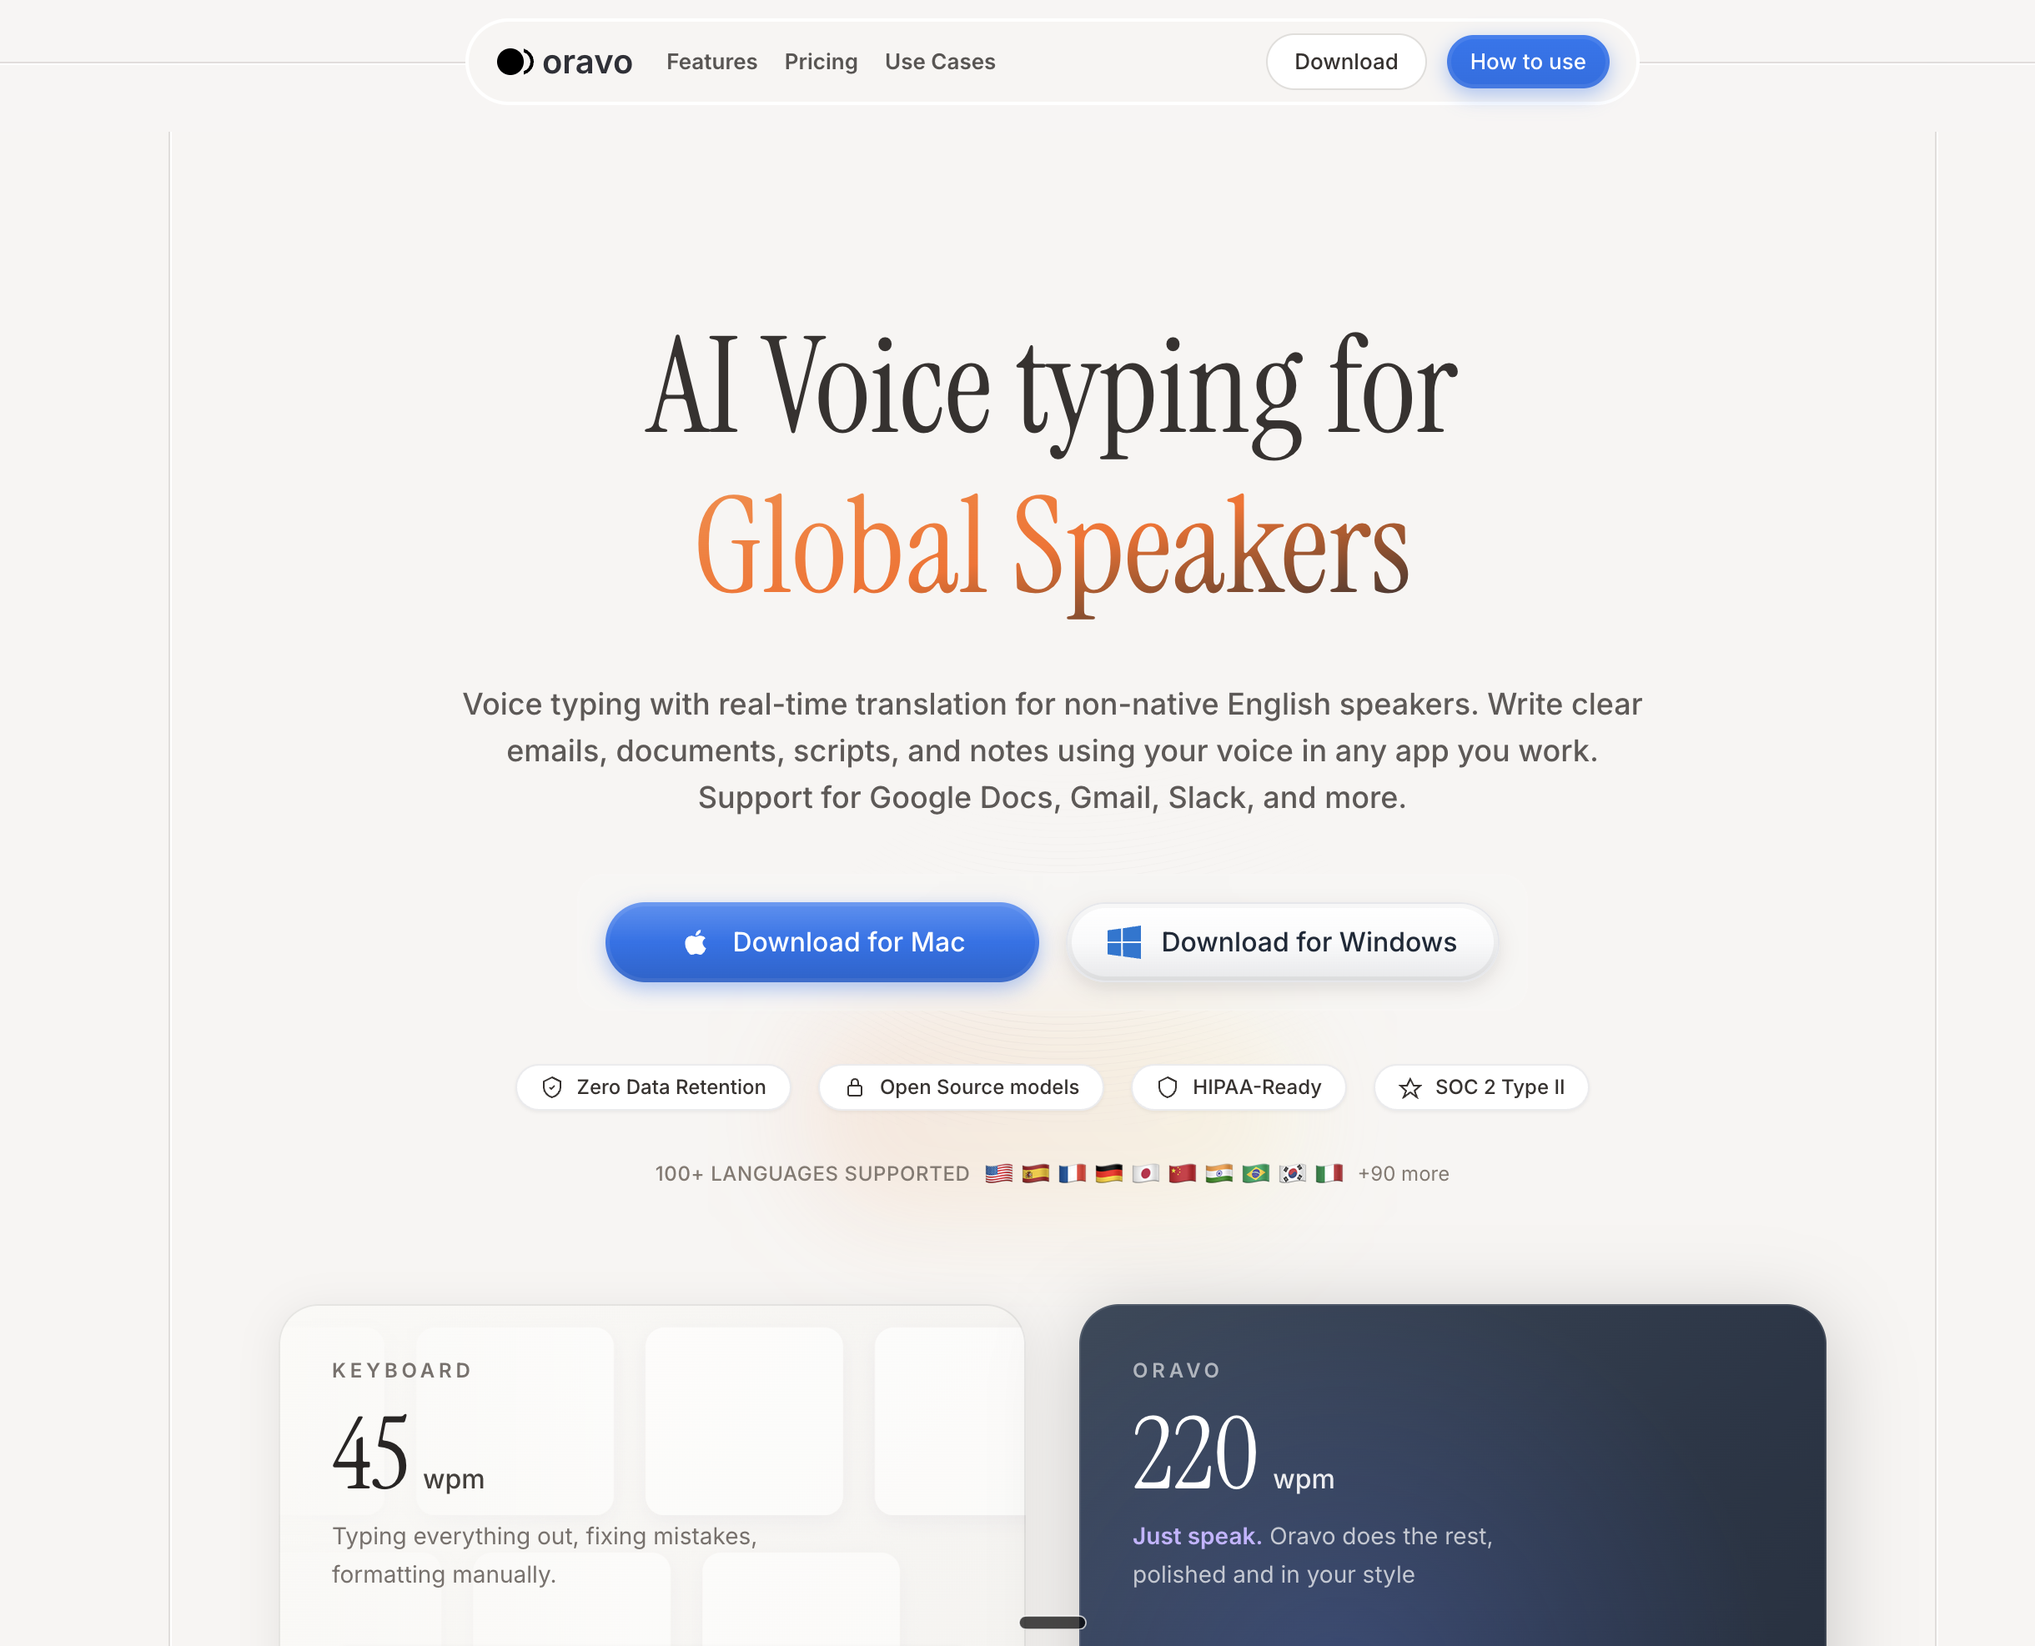
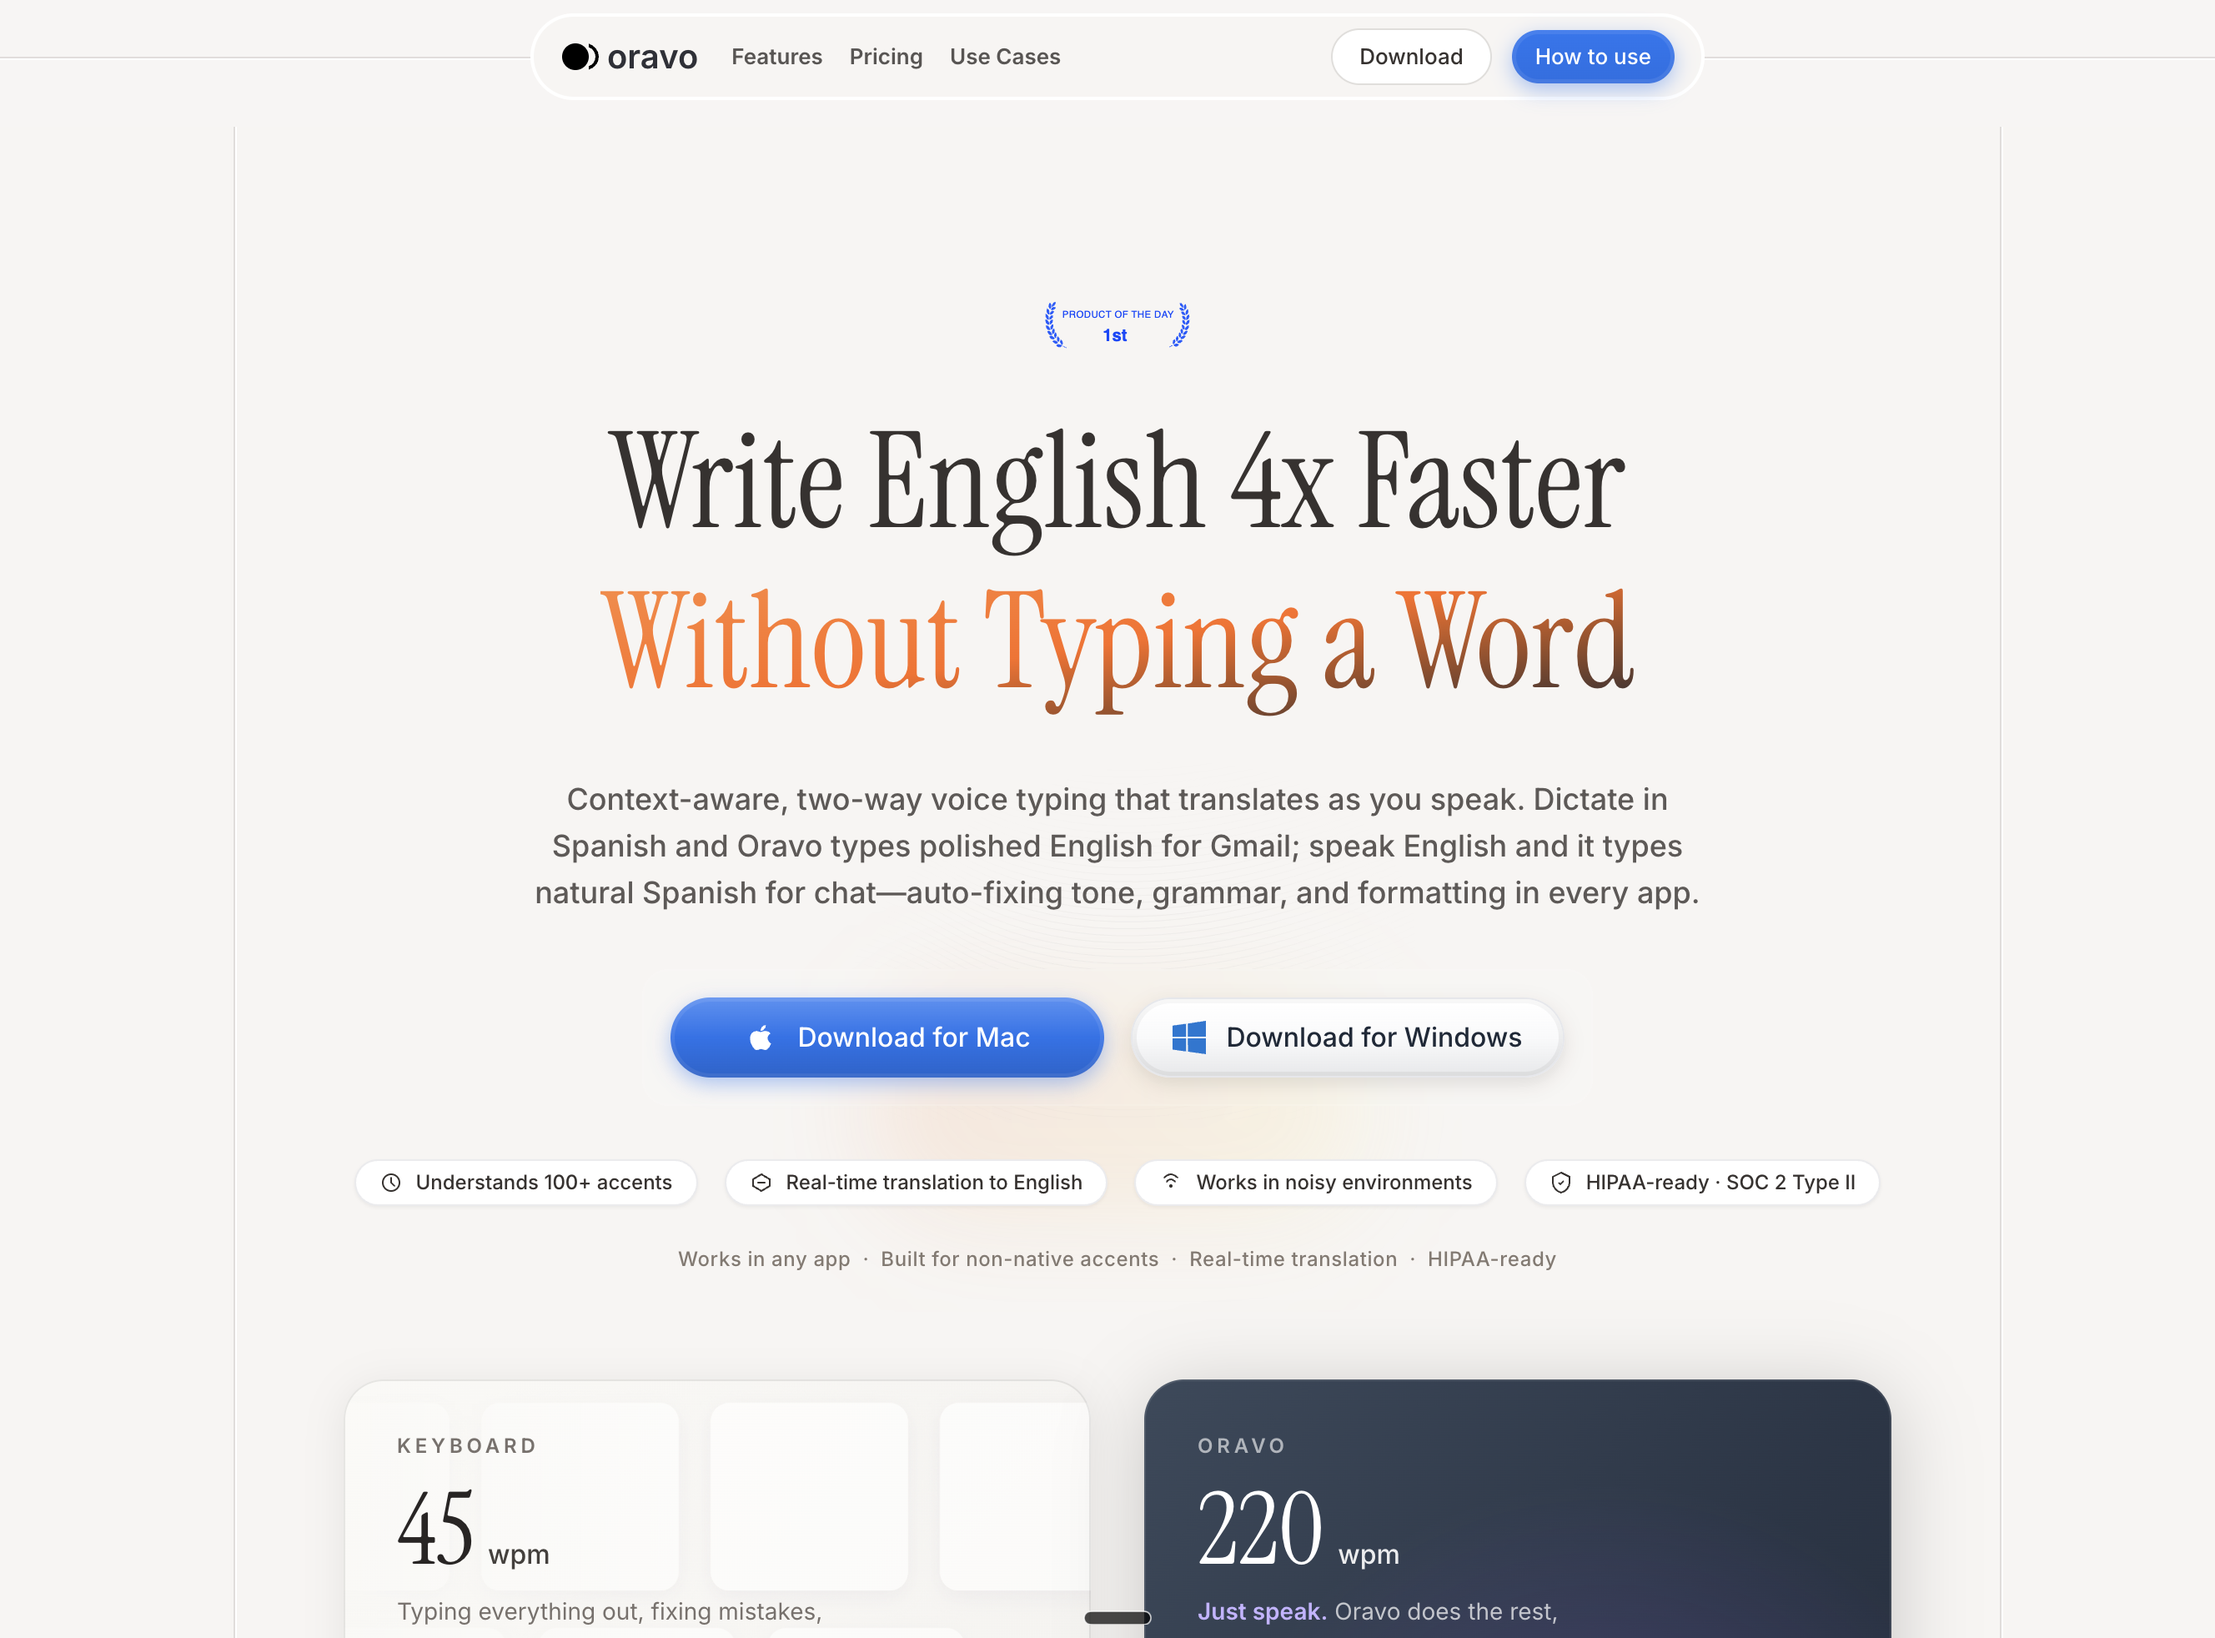
updated og-image

diff --git a/app/page.tsx b/app/page.tsx
@@ -127,7 +127,22 @@ export default function LandingPage() {
             <div className="pt-12 sm:pt-16 md:pt-20 lg:pt-[180px] pb-8 sm:pb-12 md:pb-16 flex flex-col justify-start items-center px-2 sm:px-4 md:px-8 lg:px-0 w-full sm:pl-0 sm:pr-0 pl-0 pr-0">
               <div className="w-full max-w-[937px] lg:w-[937px] flex flex-col justify-center items-center gap-3 sm:gap-4 md:gap-5 lg:gap-6">
                 <div className="self-stretch rounded-[3px] flex flex-col justify-center items-center gap-4 sm:gap-5 md:gap-6 lg:gap-8">
-                  <h1 className="w-full text-center text-[#37322F] text-[28px] xs:text-[32px] sm:text-[40px] md:text-[56px] lg:text-[80px] font-stretch-semi-condensed font-medium leading-[1.1] sm:leading-[1.15] md:leading-[1.2] lg:leading-24 font-serif px-4 sm:px-6 md:px-0 mt-6 sm:mt-8 md:mt-4 lg:mt-0">
+                  {/* Fazier Badge */}
+                  <a
+                    href="https://fazier.com/launches/oravo-ai"
+                    target="_blank"
+                    rel="noopener noreferrer"
+                    className="hover:opacity-80 transition-opacity"
+                  >
+                    <img
+                      src="https://fazier.com/api/v1/public/badges/embed_image.svg?launch_id=6546&badge_type=daily&variant=2&theme=light"
+                      width={120}
+                      height={28}
+                      alt="Fazier badge"
+                      className="h-7"
+                    />
+                  </a>
+                  <h1 className="w-full text-center text-[#37322F] text-[28px] xs:text-[32px] sm:text-[40px] md:text-[56px] lg:text-[80px] font-stretch-semi-condensed font-medium leading-[1.1] sm:leading-[1.15] md:leading-[1.2] lg:leading-24 font-serif px-4 sm:px-6 md:px-0">
                     Write English 4x Faster
                     <br />
                     <AnimatedRoleText />

diff --git a/components/footer-section.tsx b/components/footer-section.tsx
@@ -68,22 +68,6 @@ export default function FooterSection() {
               </a>
             </div>
           </div>
-
-          {/* Badges */}
-          <div className="flex items-center gap-4 mt-2">
-            {/* Fazier Badge */}
-            <a
-              href="https://fazier.com/launches/oravo-ai"
-              target="_blank"
-              rel="noopener noreferrer"
-            >
-              <img
-                src="https://fazier.com/api/v1/public/badges/embed_image.svg?launch_id=6546&badge_type=daily&variant=2&theme=light"
-                width={150}
-                alt="Fazier badge"
-              />
-            </a>
-          </div>
         </div>
 
         {/* Navigation Links */}
